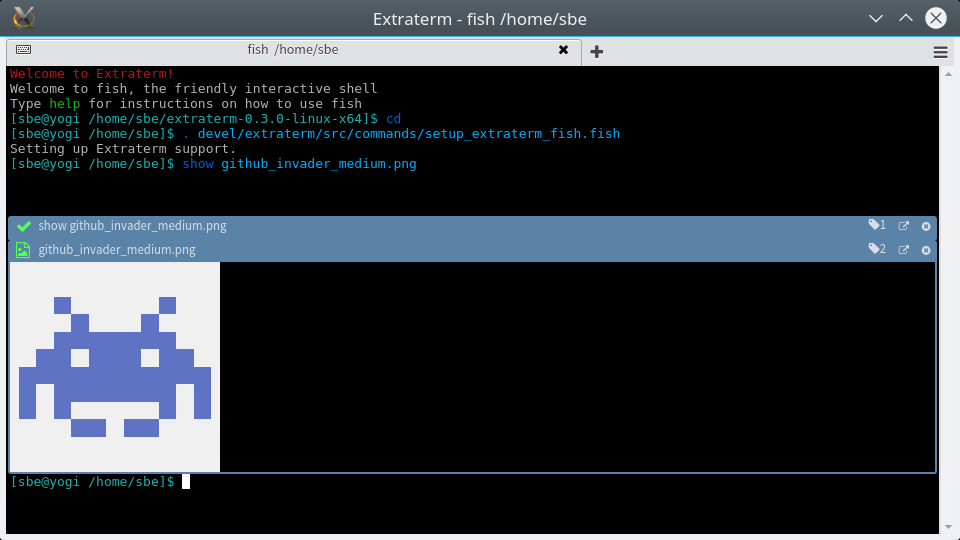
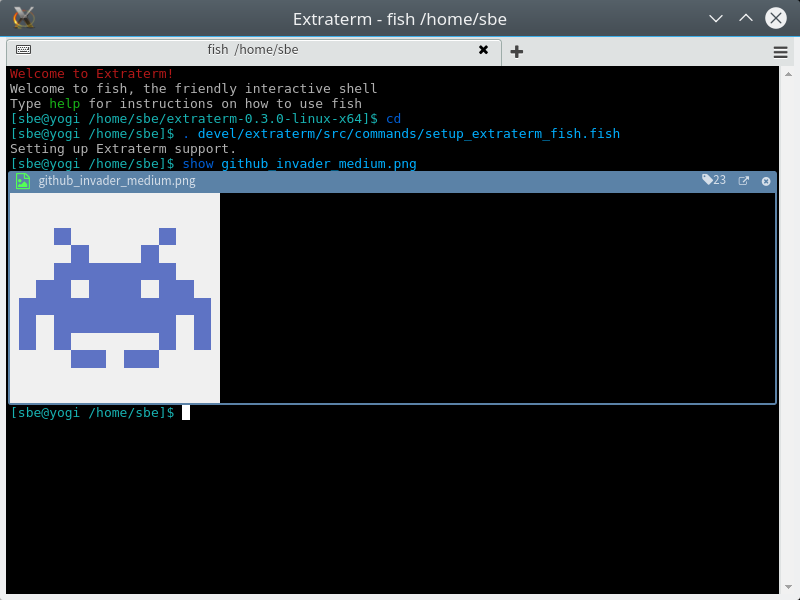
More tour work. Re-did the images at 800x600 to avoid scaling on github.

diff --git a/docs/tour.md b/docs/tour.md
@@ -7,19 +7,23 @@ It is currently in heavy development and not ready for production use, although 
 
 Backwards compatibility with the decades of existing terminal based applications and your decades of workflows and habits is very important. Extraterm supports your existing applications and doesn't require you to change your habits.
 
-![Extraterm in action](action.gif)
+![Extraterm in action](action2.gif)
 
-Use the shell integration to unlock Extraterm’s power. Bash, zshell and fish are currently supported. Quickly move between the output of different commands, put interesting command output to the side in its own tab, or just delete it directly.
+Use the shell integration to unlock Extraterm’s power. 
 
+Command output is clearly marked and return status of commands is clearly visible. Interesting command output can be put in its own tab, or just delete it directly. Bash, zshell and fish are currently supported. Extraterm features a powerful keyboard based selection mode. Copy and paste without having to leave the keyboard.
 
-
-Extraterm features a powerful keyboard based selection mode. Copy and paste without having to leave the keyboard.
-
-![Extraterm keyboard selection](selection_mode.gif)
-
+![Extraterm keyboard selection](selection_mode2.gif)
 
 Extraterm supports directly viewing richer content than just text. Works across ssh too.
 
 ![Show image](show_image.png)
 
-Command output can be directly edited in place. The “from” command lets you use previous command output as input for terminal commands. This enables new fast "ad hoc" workflows.
+
+The “from” command lets you use previous command output as input for terminal commands. This enables new fast "ad hoc" workflows.
+
+![From command](from_command.gif)
+
+Or you can edit the command output directly in place and execute the selection with `Ctrl+Shift+Enter`.
+
+![Directly edit and execute command output](edit_direct.gif)
